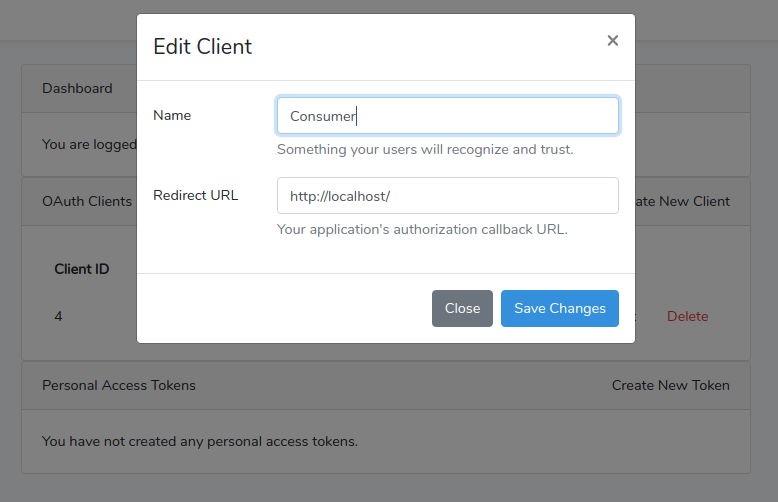
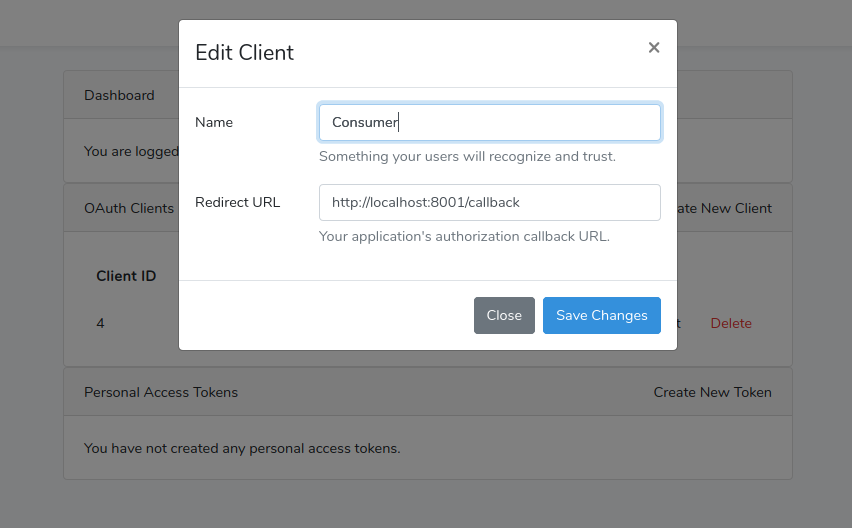
Update README.

diff --git a/README.md b/README.md
@@ -48,8 +48,29 @@ The installation is complete and now you can move on to the demonstration steps.
 
 6. As said before, you can create OAuth clients using the web interface, so let's do this:
 
-        Access the api app web interface (http://localhost:8000/) to make the login using these credentials (johndoe@example.com/password)
-        Follow the steps show in images below
+    * Access the [api app web interface](http://localhost:8000/) to make the login using these credentials (`johndoe@example.com`/`password`)
+    * Follow the steps show in images below:
 
 ![List of clients](./API/resources/images/client_list.png?raw=true)
 ![Register a client](./API/resources/images/client_details.png?raw=true)
+
+7. Customize again the `.env` file of the **consumer app** with the credentials created:
+
+        OAUTH_GRANT_AUTHORIZATION_CODE_CLIENT_ID=
+        OAUTH_GRANT_AUTHORIZATION_CODE_CLIENT_SECRET=
+
+8. Now try to access the consumer app to get tasks without authorization: http://localhost:8001/tasks:
+
+    You will probably see nothing because the consumer was not authorized yet, so let's authorize it.
+
+9. Access http://localhost:8001/ and you will be redirected to authenticate and then authorize the **consumer app**:
+
+![List of clients](./API/resources/images/asking_for_authorization.png?raw=true)
+
+10. Once authorized you will be redirected again to http://localhost:8001/tasks now with the **tasks retrieved from api**.
+
+## References
+
+    * [Laravel Passport documentation](https://laravel.com/docs/master/passport)
+    * [Tutorial about Passport](https://scotch.io/@neo/getting-started-with-laravel-passport)
+    * [Tutorial about Passport](https://blog.pusher.com/make-an-oauth2-server-using-laravel-passport/)
